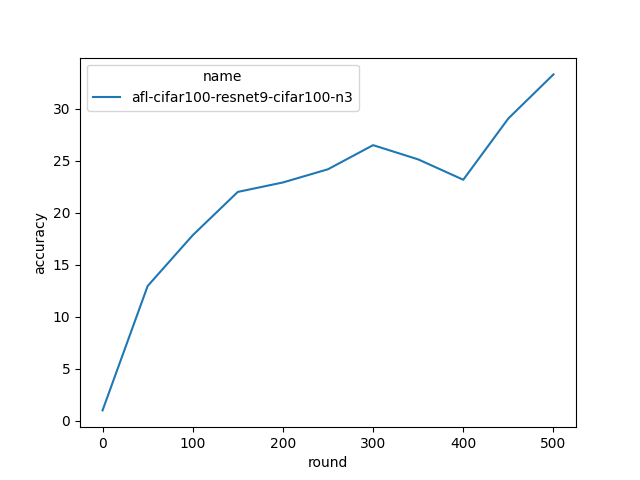
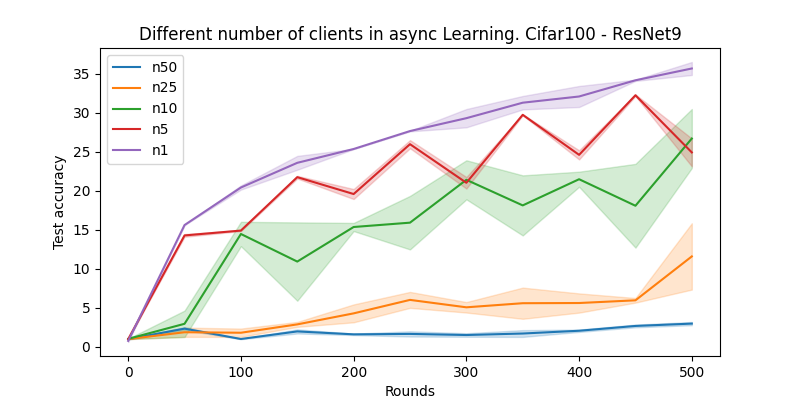
Update exp0

diff --git a/exp00_base_check.py b/exp00_base_check.py
@@ -13,28 +13,25 @@ if __name__ == '__main__':
                     action="store_true")
     args = parser.parse_args()
 
+    print('Exp 0: This experiment is to run baselines. The model used is ResNet9 with the Cifar100 dataset. '
+          +'Different number of clients are used: 50,25,10,5,1. The training is fully asynchronous SGD.')
+
     (data_path := Path('.data')).mkdir(exist_ok=True, parents=True)
     (graphs_path := Path('graphs')).mkdir(exist_ok=True, parents=True)
     exp_name = 'exp00_base_check_epoch_lr'
     data_file = data_path / f'{exp_name}.json'
 
     if not args.o:
-        # Run experiment
         # Define configurations
         configs = []
-        # n = 3  # number of total clients
         f = 0  # number of byzantine clients
         num_rounds = 50*10
         idx = 1
-        # Config for Cifar10 dataset
-        repetitions = 3
+        repetitions = 2
         limit = 10
         for _r in range(repetitions):
-            # for model_name in ['cifar100-resnet','cifar100-vgg','cifar100-lenet']:
-            for n in [25,10, 5, 1]:
+            for n in [50,25,10, 5, 1]:
                 for model_name in ['cifar100-resnet9']:
-                # for model_name in ['cifar100-vgg']:
-
                     configs.append({
                             'name': f'afl-{model_name}-cifar100-n{n}',
                             'num_rounds': num_rounds,
@@ -82,13 +79,17 @@ if __name__ == '__main__':
     for out in outputs2:
         name = out[1]['name']
         local_df = pd.DataFrame(out[0], columns=['round', 'accuracy', 'loss'])
-        local_df['name'] = name
+        local_df['name'] = name.split('-')[-1]
         dfs.append(local_df)
     server_df = pd.concat(dfs, ignore_index=True)
 
     graph_file = graphs_path / f'{exp_name}.png'
     # Visualize data
-    plt.figure()
-    sns.lineplot(data=server_df, x='round', y='accuracy', hue='name')
+    plt.figure(figsize=(8,4))
+    g = sns.lineplot(data=server_df, x='round', y='accuracy', hue='name')
+    plt.title('Different number of clients in async Learning. Cifar100 - ResNet9')
+    plt.xlabel('Rounds')
+    plt.ylabel('Test accuracy')
+    g.legend_.set_title(None)
     plt.savefig(graph_file)
     plt.show()

diff --git a/asyncfl/client.py b/asyncfl/client.py
@@ -16,7 +16,8 @@ class Client:
         # self.device = torch.device('cpu')
         self.device = torch.device('cuda:0') if torch.cuda.is_available() else torch.device('cpu')
         # self.network = MNIST_CNN().to(self.device)
-        self.network = get_model_by_name(model_name).to(self.device)
+        # self.network = get_model_by_name(model_name).to(self.device)
+        self.network = get_model_by_name(model_name)
         self.loss_function = torch.nn.CrossEntropyLoss()
         self.lr = 0.005
         self.optimizer = torch.optim.SGD(self.network.parameters(), lr=self.lr, momentum=0.5)
@@ -59,7 +60,14 @@ class Client:
     def polyak_update(polyak_factor, target_network, network):
         for target_param, param in zip(target_network.parameters(), network.parameters()):
             target_param.data.copy_(polyak_factor*param.data + target_param.data*(1.0 - polyak_factor))
-    
+
+    # GPU AUX FUNCTIONS
+    def move_to_gpu(self):
+        self.network.to(self.device)
+        pass
+
+    def move_to_cpu(self):
+        self.network.to(torch.device('cpu'))
 
     # def train(self, num_batches = -1):
     #     self.optimizer.zero_grad()

diff --git a/asyncfl/scheduler.py b/asyncfl/scheduler.py
@@ -14,6 +14,7 @@ from asyncfl.network import flatten
 from .server import Server
 from .client import Client
 from .task import Task
+import gc
 import asyncio
 import random
 from threading import Thread
@@ -200,6 +201,7 @@ class Scheduler:
                 server_metrics.append([update_id, out[0], out[1]])
                 pbar.set_description(f'{add_descr}Accuracy = {out[0]:.2f}%, Loss = {out[1]:.7f}')
             client: Client = clients[client_id]
+            client.move_to_gpu()
             client.train(num_batches=1)
 
 
@@ -228,6 +230,9 @@ class Scheduler:
             unflatten_b(server.network, c_buffers)
             new_model_weights_vector = server.client_update(client.get_pid(), c_gradients, age)
             client.set_weight_vectors(new_model_weights_vector.cpu().numpy(), server.get_age())
+            client.move_to_cpu()
+            # gc.collect()
+            # torch.cuda.empty_cache()
 
 
             # Attempt to only use paramters and not state_dict
